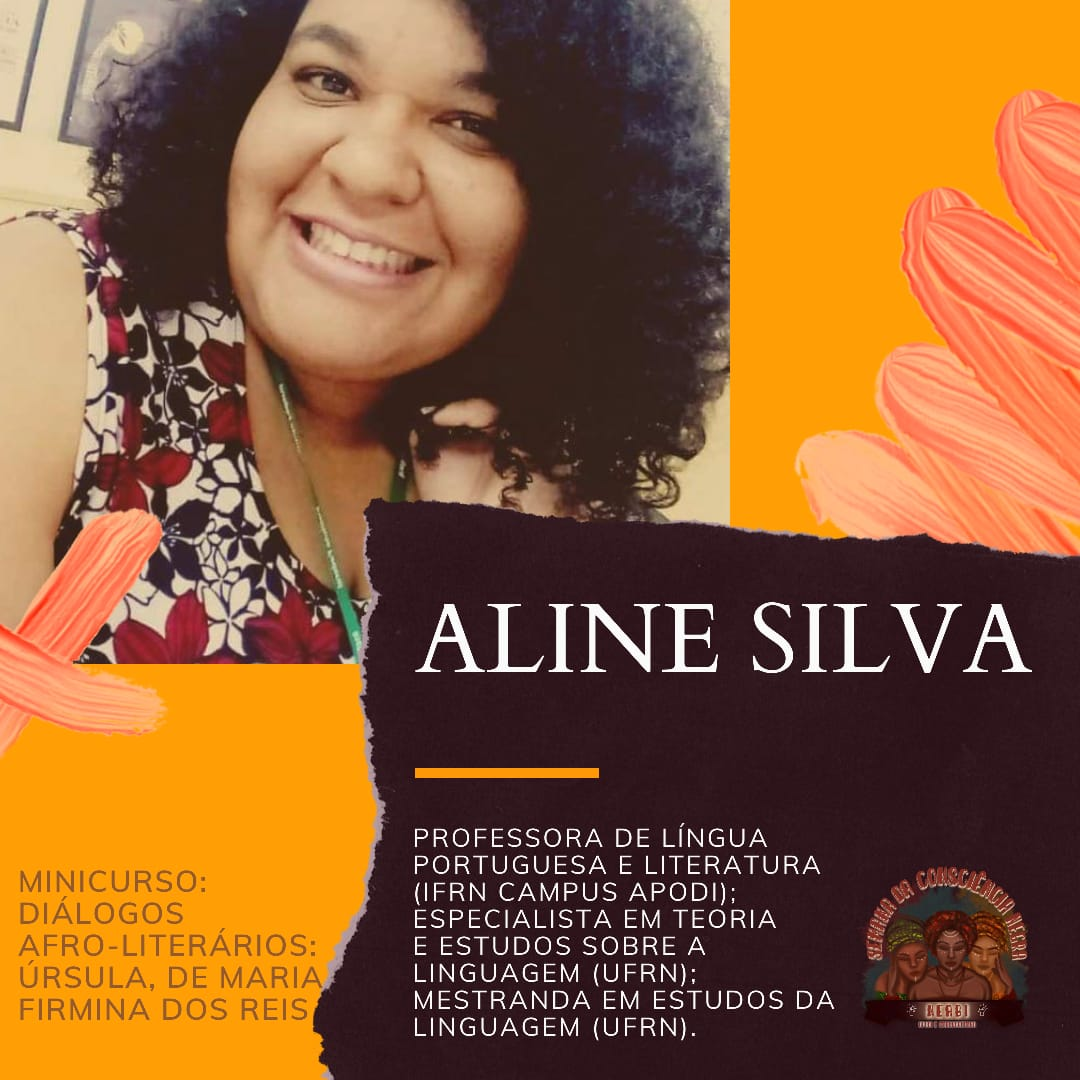
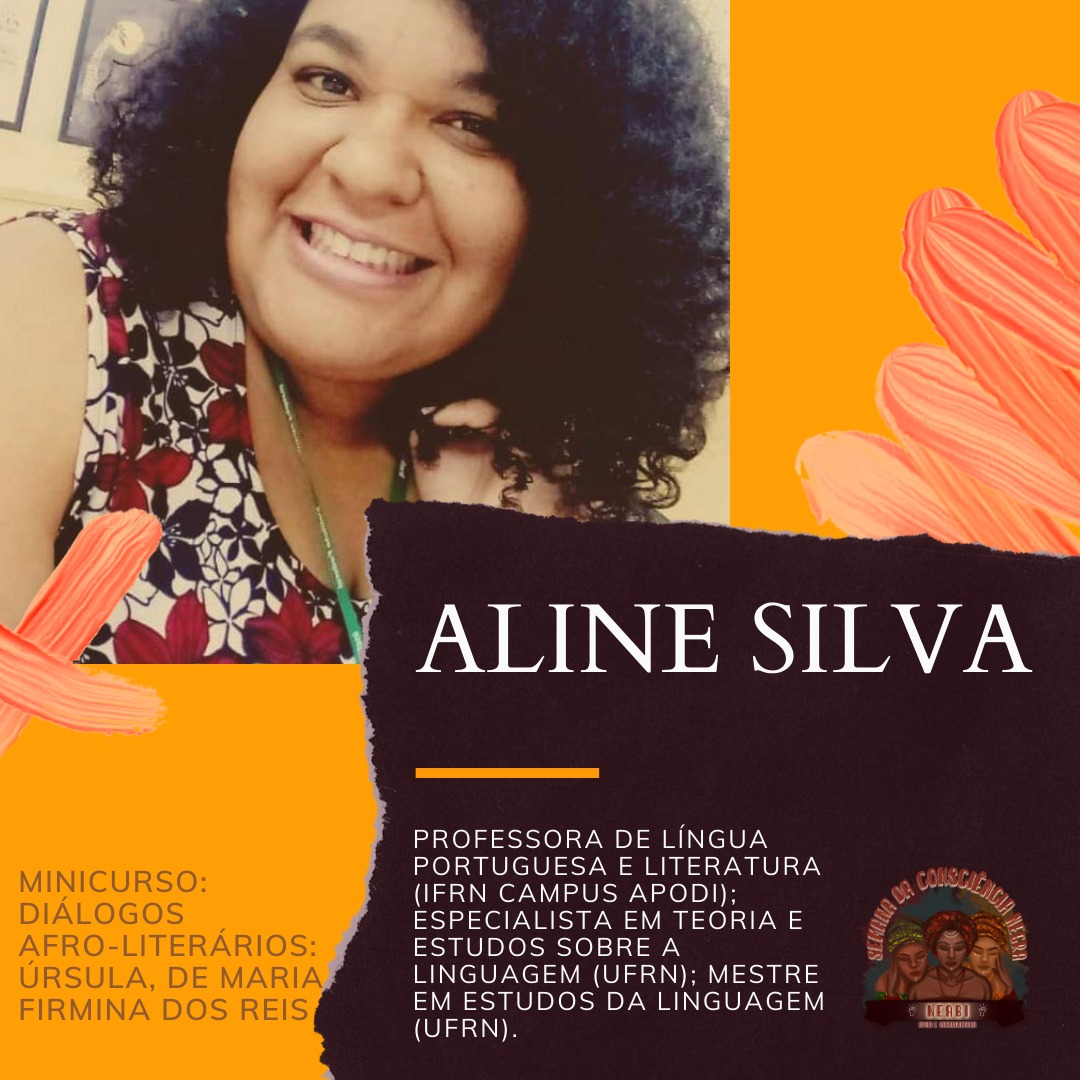
fimmmm

diff --git a/programacao.html b/programacao.html
@@ -69,7 +69,7 @@
                     <td>Palestra</td>
                     <td>Saúde Mental da População Negra</td>
                     <td>Natália Silva</td>
-                    <td>Assistente social (UFPB); Sanitarista (UPE); Especialista em saúde mental (UFPB)</td>
+                    <td>Assistente social (UFPE); Sanitarista (UPE); Especialista em saúde mental (UFPB)</td>
                   </tr>
                   <tr>
                     <th scope="row">19H</th>
@@ -158,7 +158,7 @@
                         <td>Diálogos afro-literários: Úrsula, de Maria Firmina dos Reis</td>
                         <td>Lanaiza Araújo e Aline Silva</td>
                         <td> Professora de Língua portuguesa e Literatura (IFRN Campus Apodi); 
-                          Aline Silva: Mestre e Doutora em Literatura Comparada (UFRN). e Professora de Língua portuguesa e Literatura (IFRN Campus Apodi); Especialista em Teoria e Estudos sobre a linguagem (UFRN); Mestranda em Estudos da Linguagem (UFRN)</td>
+                          Aline Silva: Mestre e Doutora em Literatura Comparada (UFRN). e Professora de Língua portuguesa e Literatura (IFRN Campus Apodi); Especialista em Teoria e Estudos sobre a linguagem (UFRN); Mestre em Estudos da Linguagem (UFRN)</td>
                     </tr>
                     <tr>
                         <th scope="row">9H</th>

diff --git a/index.html b/index.html
@@ -133,7 +133,7 @@
                     <div class="col-sm-6 col-lg-4">
                         <div class="team-member">
                             <img class="mx-auto rounded-circle" src="img/time/eduarda.jpeg" alt="" />
-                            <h4>Eduarda Morrim</h4>
+                            <h4>Eduarda Amorim</h4>
                             <p class="text-muted">Aluna</p>
                         </div>
                     </div>
@@ -194,6 +194,13 @@
                             <img class="mx-auto rounded-circle" src="img/time/nil.jpeg" alt="" />
                             <h4>Nilton Xavier</h4>
                             <p class="text-muted">Professor</p>
+                        </div> 
+                    </div>
+                    <div class="col-sm-6 col-lg-4">
+                        <div class="team-member">
+                            <img class="mx-auto rounded-circle" src="img/time/samara.jpeg" alt="" />
+                            <h4>Samara Coutinho</h4>
+                            <p class="text-muted">Aluna</p>
                         </div> 
                     </div>
             
